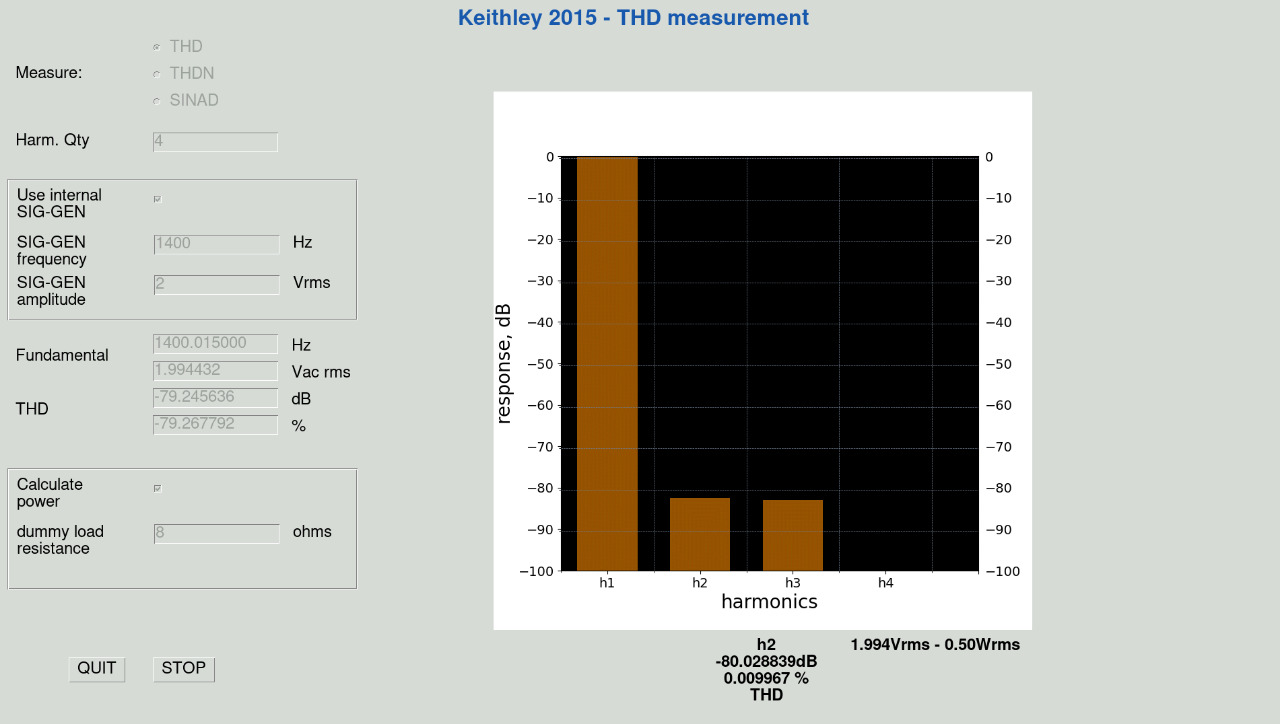
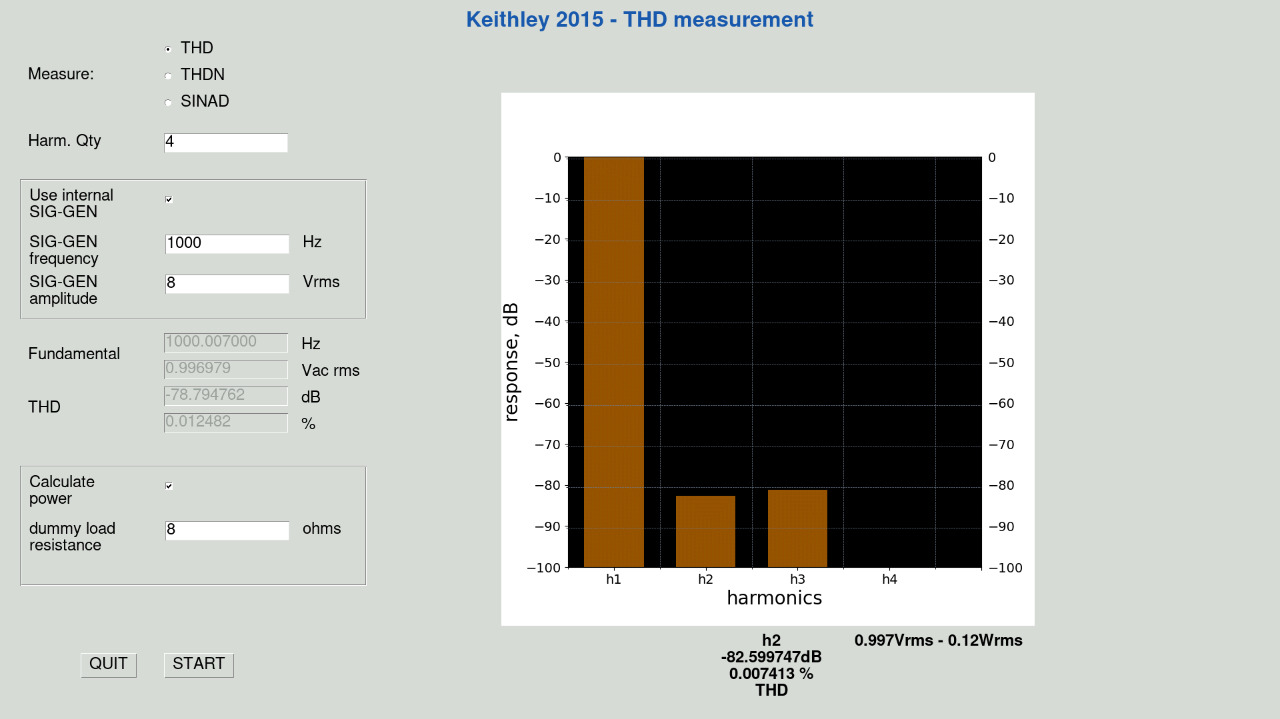
Updated screenshot

diff --git a/thd.py b/thd.py
@@ -210,16 +210,16 @@ class mclass:
         if self.chk_power_var.get() == 0: return
 
         if not SIM:
-            #TODO TEST: measure Vca in equipment - USE VCA mode
+            #measure Vca in equipment - with VCA mode
             #self.send_cmd(':SENS:FUNC \'VOLT:AC\'')
             #self.send_cmd(':SENS:VOLT:AC:RANG:AUTO ON')
-            #self.send_cmd(':SENS:VOLT:AC:NPLC 0.1') #MEDIUM is 0.1 in AC
-            #self.send_cmd(':SENS:VOLT:AC:DIG 2')
+            #self.send_cmd(':SENS:VOLT:AC:NPLC 0.1') # FAST is 0.1 in AC. 1 is MED and 10 is SLOW.
+            #self.send_cmd(':SENS:VOLT:AC:DIG 4') # must be 4-7
             #self.send_cmd(':SENS:VOLT:AC:AVER:STAT OFF')
             #self.send_cmd(':TRIG:COUN 1')
             #res = self.send_cmd(':READ?')
 
-            #take Vca from previous measurement - USE DIST mode
+            #take Vca from previous measurement - taken on DIST mode
             res = format(self.fundamental_vrms, '.3f')
 
 
@@ -287,10 +287,11 @@ class mclass:
             self.fundamental_vrms = float(new_textVac)
             self.fundamental_freq = new_textHz
         else:
+            #this was moved to setup_thd_measurement()
             #self.send_cmd(':SENS:FUNC \'DIST\'')
             #self.send_cmd(':SENS:DIST:TYPE ' + self.rad_values[int(self.rad_var.get())])
             #self.send_cmd(':SENS:DIST:HARM ' + "{0:02d}".format(int(self.str_harm_qty.get())))
-            #self.send_cmd(':UNIT:DIST PERC')
+            self.send_cmd(':UNIT:DIST PERC')
             #self.send_cmd(':SENS:DIST:SFIL NONE')
             #self.send_cmd(':SENS:DIST:RANG:AUTO ON')
             #self.send_cmd(':SENS:DIST:FREQ:AUTO ON')
@@ -316,7 +317,7 @@ class mclass:
             # return THD/THDN %
             self.dist_perc = format(float(self.send_cmd(':SENS:DIST:' + self.rad_values[int(self.rad_var.get())] + '?')), '.6f')
             self.str_perc.set(self.dist_perc)
-            if DEBUG: print("measured " + self.rad_values[int(self.rad_var.get())] + ": " + self.dist_perc + " %")
+            if DEBUG: print("measured [%] " + self.rad_values[int(self.rad_var.get())] + ": " + self.dist_perc + " %")
 
             # return THD/THDN in dB
             self.send_cmd(':UNIT:DIST DB')
@@ -326,7 +327,7 @@ class mclass:
             self.dist_db = format(float(self.send_cmd(':SENS:DIST:' + self.rad_values[int(self.rad_var.get())] + '?')), '.6f')
             if DEBUG:
                 print("dist in dB: " + res)
-                print("measured " + self.rad_values[int(self.rad_var.get())] + ": " + self.dist_db + " dB")
+                print("measured [dB] " + self.rad_values[int(self.rad_var.get())] + ": " + self.dist_db + " dB")
 
             # measure each harm
             self.data = pd.DataFrame(columns = ['harm', 'dB'])
@@ -337,6 +338,7 @@ class mclass:
                 harm_mag_db = float(res)
                 harm_perc=pow(10, harm_mag_db/20)*100
                 harm_mag_vrms=harm_perc/100*self.fundamental_vrms
+                #TODO
                 #harm_fq = float(self.send_cmd('SENS:DIST:HARM:FREQ? 02,02'))   #;not valid command?
                 if DEBUG:
                     print("harm %d magnitude: " % h + format(harm_mag_db, '.6f') + " dB")
